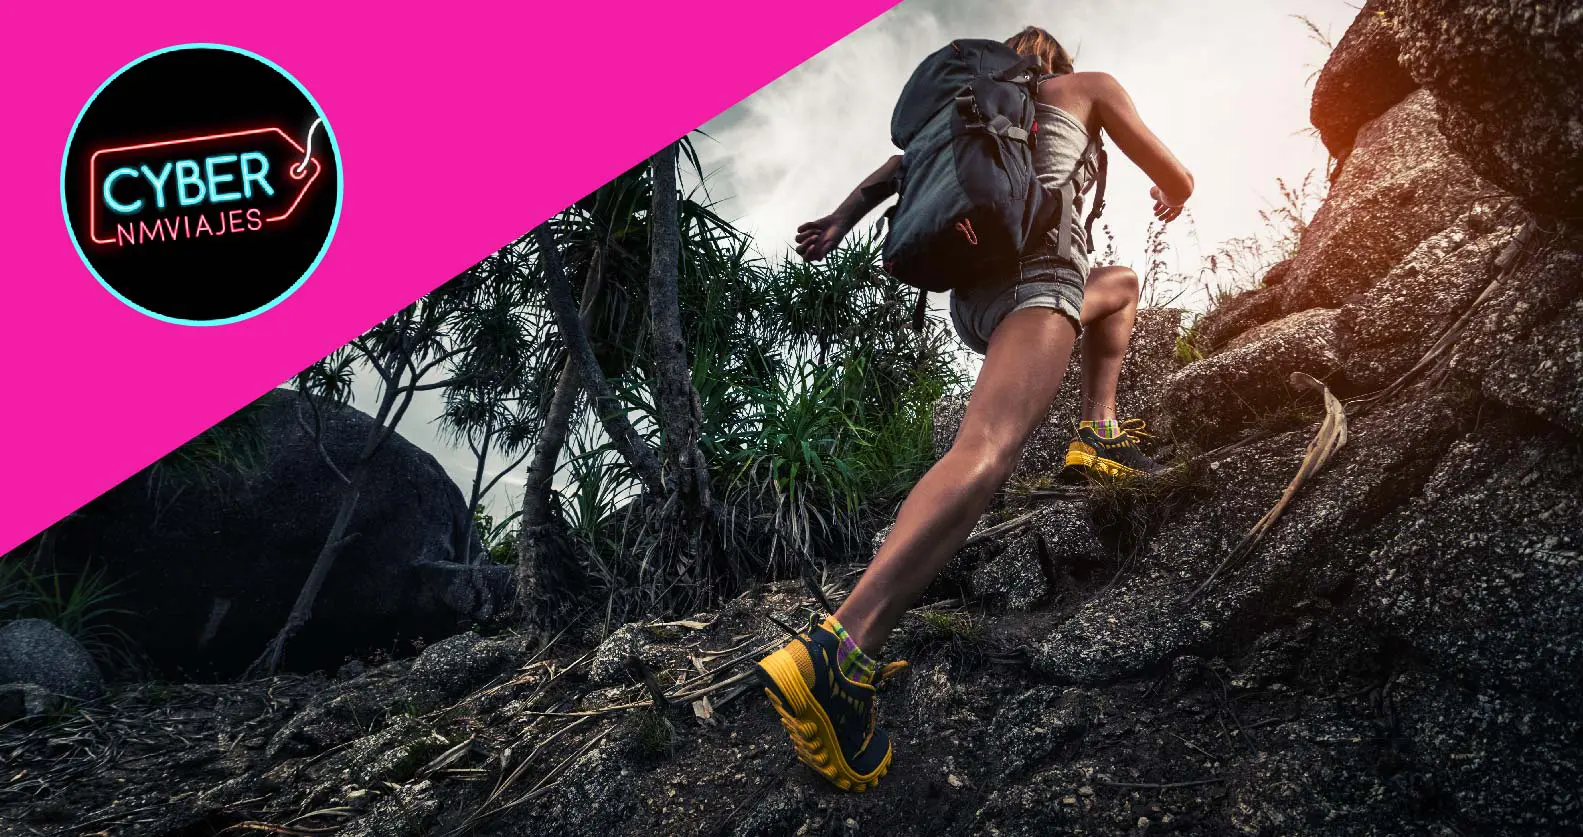
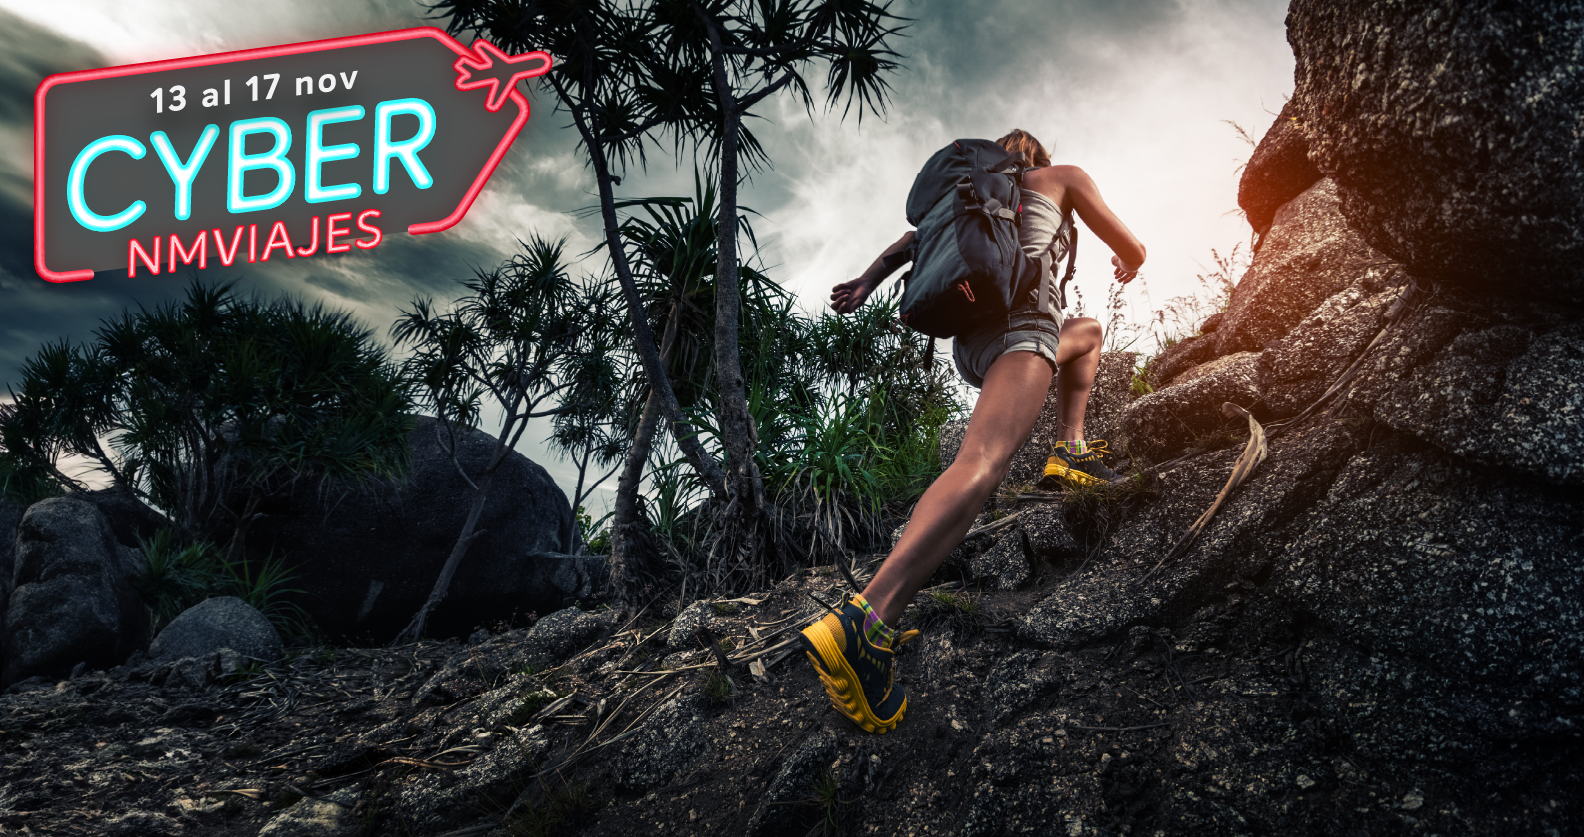
Cronómetro e imágenes CyberNM

diff --git a/src/environments/environment.prod.ts b/src/environments/environment.prod.ts
@@ -26,9 +26,9 @@ export const environment = {
   today: (hoy: any) => {
     return `${hoy.getDate()}/${hoy.getMonth() + 1}/${hoy.getFullYear()}`
   },
-  offerText: '¡Apúrate que se acaban las ofertas!',
-  offerExpireDate: '2023-10-27 T 23:59:59', //YYYY-MM-DD T hh:mm:ss
-  offerLink: 'https://vacaciones.nmviajes.com/ES/holidays/availability?utm_source=web&utm_medium=reloj&utm_campaign=cyberwowoct&utm_id=cyberwowoct&utm_term=reloj&utm_content=reloj',
+  offerText: '¡No dejes pasar las ofertas!',
+  offerExpireDate: '2023-11-17 T 23:59:59', //YYYY-MM-DD T hh:mm:ss
+  offerLink: 'https://vacaciones.nmviajes.com/ES/holidays/availability?utm_source=web&utm_medium=reloj&utm_campaign=cybernmviajes&utm_id=cybernmviajesnov&utm_term=reloj&utm_content=reloj',
   urlPaqueteDinamico: 'https://vacaciones.nmviajes.com/',
   urlPaqueteDinamicoNmViajes: 'https://nmviajes.paquetedinamico.com/',
   urlAutosNmViajes: 'https://autos.nmviajes.com/',

diff --git a/src/environments/environment.qa.ts b/src/environments/environment.qa.ts
@@ -15,9 +15,9 @@ export const environment = {
   today: (hoy: any) => {
     return `${hoy.getDay()}/${hoy.getMonth()}/${hoy.getFullYear()}`
   },
-  offerText: '¡Apúrate que se acaban las ofertas!',
-  offerExpireDate: '2023-10-27 T 23:59:59', //YYYY-MM-DD T hh:mm:ss
-  offerLink: 'https://vacaciones.nmviajes.com/ES/holidays/availability?utm_source=web&utm_medium=reloj&utm_campaign=cyberwowoct&utm_id=cyberwowoct&utm_term=reloj&utm_content=reloj',
+  offerText: '¡No dejes pasar las ofertas!',
+  offerExpireDate: '2023-11-17 T 23:59:59', //YYYY-MM-DD T hh:mm:ss
+  offerLink: 'https://vacaciones.nmviajes.com/ES/holidays/availability?utm_source=web&utm_medium=reloj&utm_campaign=cybernmviajes&utm_id=cybernmviajesnov&utm_term=reloj&utm_content=reloj',
   urlPaqueteDinamico: 'https://vacaciones.nmviajes.com/',
   urlPaqueteDinamicoNmViajes: 'https://nmviajes.paquetedinamico.com/',
   urlAutosNmViajes: 'https://autos.nmviajes.com/',

diff --git a/src/environments/environment.ts b/src/environments/environment.ts
@@ -15,9 +15,9 @@ export const environment = {
   today: (hoy: any) => {
     return `${hoy.getDay()}/${hoy.getMonth()}/${hoy.getFullYear()}`
   },
-  offerText: '¡Apúrate que se acaban las ofertas!',
-  offerExpireDate: '2023-10-27 T 23:59:59', //YYYY-MM-DD T hh:mm:ss
-  offerLink: 'https://vacaciones.nmviajes.com/ES/holidays/availability?utm_source=web&utm_medium=reloj&utm_campaign=cyberwowoct&utm_id=cyberwowoct&utm_term=reloj&utm_content=reloj',
+  offerText: '¡No dejes pasar las ofertas!',
+  offerExpireDate: '2023-11-17 T 23:59:59', //YYYY-MM-DD T hh:mm:ss
+  offerLink: 'https://vacaciones.nmviajes.com/ES/holidays/availability?utm_source=web&utm_medium=reloj&utm_campaign=cybernmviajes&utm_id=cybernmviajesnov&utm_term=reloj&utm_content=reloj',
   urlPaqueteDinamico: 'https://vacaciones.nmviajes.com/',
   urlPaqueteDinamicoNmViajes: 'https://nmviajes.paquetedinamico.com/',
   urlAutosNmViajes: 'https://autos.nmviajes.com/',
